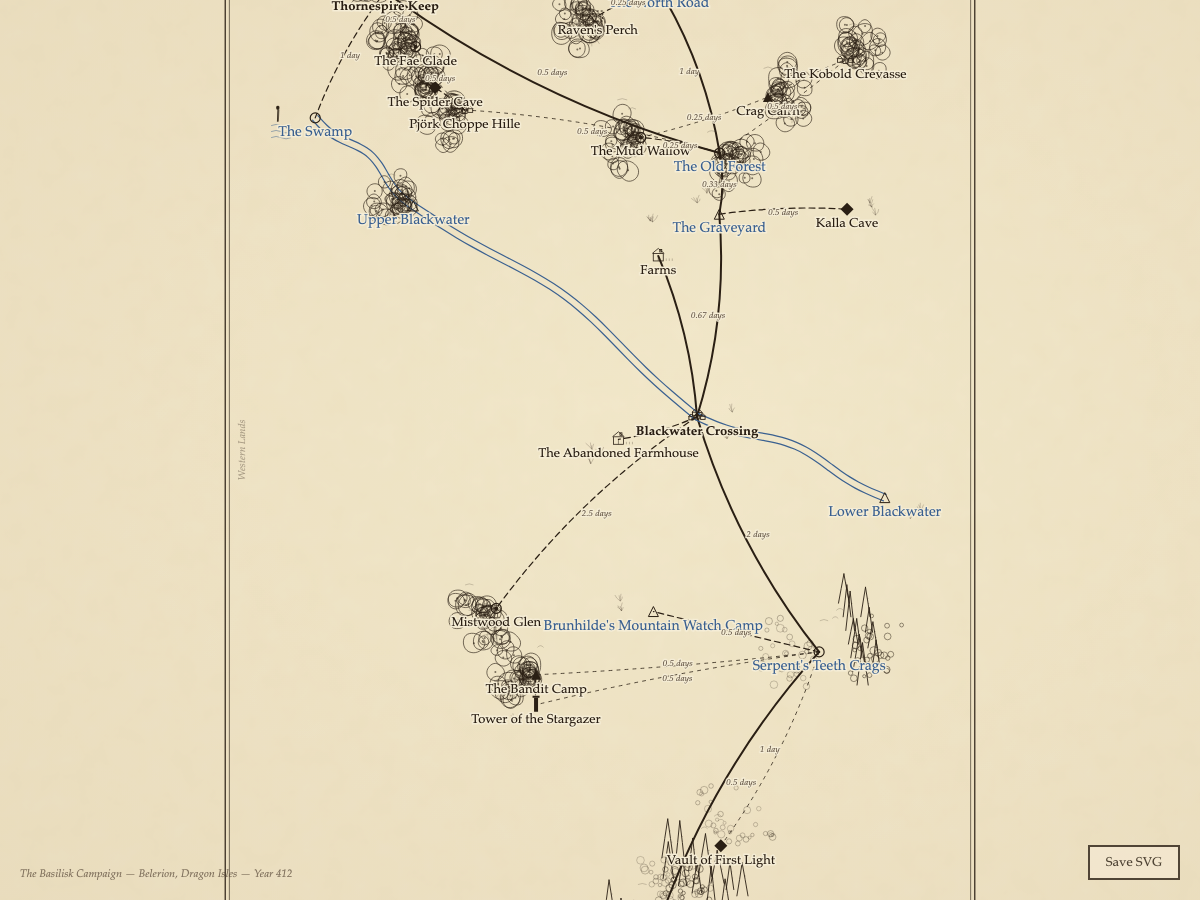
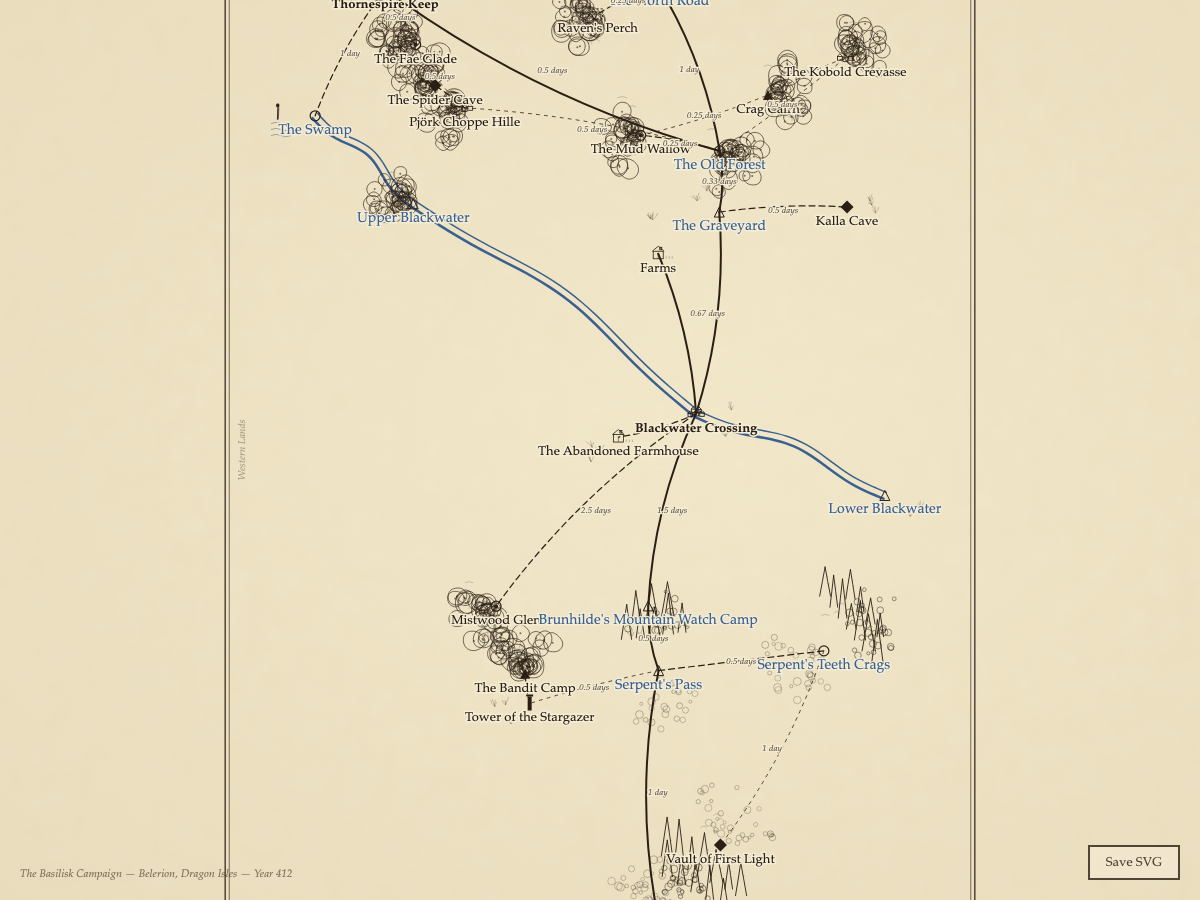
Polish map styles: rivers, dragon, forests, cartouche
Wilderland: thicker blue double-line rivers (2.5/1.5 stroke), bolder
cartouche box (2.0 stroke, 18px title, 4px letter-spacing).

Treasure map: larger dragon beast illustration (50% scale up, 0.7
opacity), reduced annotation overlap (45-60px offset, 25-29 char max).

World atlas: denser forest hatching (12-18 trees, tighter packing),
fixed region watermark duplication (skip when name matches region).

diff --git a/maps/treasuremap.html b/maps/treasuremap.html
@@ -734,7 +734,7 @@ function renderAnnotations(container, nodes) {
 
     // Vary angle and distance per node for a scattered, hand-written look
     const angle = (rng() - 0.5) * Math.PI * 1.5;
-    const dist = 35 + rng() * 20;
+    const dist = 45 + rng() * 15;
 
     const ax = node.x + Math.cos(angle) * dist;
     const ay = node.y + Math.sin(angle) * dist;
@@ -742,7 +742,7 @@ function renderAnnotations(container, nodes) {
     // Use node description text, truncated to 35-45 chars
     let phrase;
     if (node.description) {
-      const limit = 35 + Math.floor(rng() * 10); // 35-44 chars
+      const limit = 25 + Math.floor(rng() * 5); // 25-29 chars
       if (node.description.length > limit) {
         let cut = node.description.lastIndexOf(" ", limit);
         if (cut < 20) cut = limit;
@@ -814,8 +814,8 @@ function renderBeastSymbol(container, nodes) {
   const by = beast.y + Math.sin(angle) * dist;
 
   const g = container.append("g")
-    .attr("transform", `translate(${bx}, ${by}) scale(0.9)`)
-    .attr("opacity", 0.6);
+    .attr("transform", `translate(${bx}, ${by}) scale(1.35)`)
+    .attr("opacity", 0.7);
 
   // Simple dragon silhouette: serpentine body with wings
   // Body — sinuous S-curve
@@ -823,7 +823,7 @@ function renderBeastSymbol(container, nodes) {
     .attr("d", "M 0 0 C 6 -8, 14 -4, 18 -10 C 22 -16, 28 -12, 32 -8 C 36 -4, 30 2, 24 0")
     .attr("fill", "none")
     .attr("stroke", RED_INK)
-    .attr("stroke-width", 1.8)
+    .attr("stroke-width", 2.0)
     .attr("stroke-linecap", "round");
 
   // Left wing — swept back
@@ -832,7 +832,7 @@ function renderBeastSymbol(container, nodes) {
     .attr("fill", RED_INK)
     .attr("opacity", 0.25)
     .attr("stroke", RED_INK)
-    .attr("stroke-width", 0.8);
+    .attr("stroke-width", 1.0);
 
   // Right wing — swept forward
   g.append("path")
@@ -840,20 +840,20 @@ function renderBeastSymbol(container, nodes) {
     .attr("fill", RED_INK)
     .attr("opacity", 0.25)
     .attr("stroke", RED_INK)
-    .attr("stroke-width", 0.8);
+    .attr("stroke-width", 1.0);
 
   // Head — small pointed triangle
   g.append("path")
     .attr("d", "M 0 0 L -4 -3 L -2 2 Z")
     .attr("fill", RED_INK)
-    .attr("opacity", 0.5);
+    .attr("opacity", 0.7);
 
   // Tail tip
   g.append("path")
     .attr("d", "M 24 0 C 26 4, 30 6, 34 4")
     .attr("fill", "none")
     .attr("stroke", RED_INK)
-    .attr("stroke-width", 1.2)
+    .attr("stroke-width", 1.6)
     .attr("stroke-linecap", "round");
 }
 
@@ -871,15 +871,15 @@ function renderBeastMark(container, nodes) {
     const flip = rng() > 0.5 ? -1 : 1;
 
     const g = container.append("g")
-      .attr("transform", `translate(${bx}, ${by}) scale(${flip * 0.8}, 0.8)`)
-      .attr("opacity", 0.5);
+      .attr("transform", `translate(${bx}, ${by}) scale(${flip * 1.2}, 1.2)`)
+      .attr("opacity", 0.7);
 
     // Serpentine body — sinuous S-curve
     g.append("path")
       .attr("d", "M 0 0 C 5 -10, 15 -6, 20 -12 C 25 -18, 32 -10, 28 -4")
       .attr("fill", "none")
       .attr("stroke", RED_INK)
-      .attr("stroke-width", 1.6)
+      .attr("stroke-width", 2.0)
       .attr("stroke-linecap", "round");
 
     // Pointed tail
@@ -887,16 +887,16 @@ function renderBeastMark(container, nodes) {
       .attr("d", "M 28 -4 C 32 0, 36 4, 40 2 L 38 5")
       .attr("fill", "none")
       .attr("stroke", RED_INK)
-      .attr("stroke-width", 1.0)
+      .attr("stroke-width", 1.4)
       .attr("stroke-linecap", "round");
 
     // Small wing suggestion
     g.append("path")
       .attr("d", "M 12 -9 C 8 -20, 2 -22, -2 -16 C 2 -14, 8 -12, 12 -9")
       .attr("fill", RED_INK)
-      .attr("opacity", 0.2)
+      .attr("opacity", 0.3)
       .attr("stroke", RED_INK)
-      .attr("stroke-width", 0.6);
+      .attr("stroke-width", 0.8);
   });
 }
 

diff --git a/maps/wilderland.html b/maps/wilderland.html
@@ -670,10 +670,10 @@ function renderLinks(container, links) {
       const lineGen = d3.line().x(d => d.x).y(d => d.y).curve(d3.curveBasis);
 
       linkGroup.append("path").attr("d", lineGen(offsetBank(spine, 1)))
-        .attr("fill", "none").attr("stroke", BLUE).attr("stroke-width", 1.2)
+        .attr("fill", "none").attr("stroke", BLUE).attr("stroke-width", 2.5)
         .attr("stroke-linecap", "round");
       linkGroup.append("path").attr("d", lineGen(offsetBank(spine, -1)))
-        .attr("fill", "none").attr("stroke", BLUE).attr("stroke-width", 1.2)
+        .attr("fill", "none").attr("stroke", BLUE).attr("stroke-width", 1.5)
         .attr("stroke-linecap", "round");
       return;
     }
@@ -815,7 +815,7 @@ function renderCartouche(container, bounds, meta) {
     .attr("width", boxW).attr("height", boxH)
     .attr("fill", PARCHMENT)
     .attr("stroke", INK)
-    .attr("stroke-width", 1.2);
+    .attr("stroke-width", 2.0);
 
   // Inner border
   container.append("rect")
@@ -823,7 +823,7 @@ function renderCartouche(container, bounds, meta) {
     .attr("width", boxW - 6).attr("height", boxH - 6)
     .attr("fill", "none")
     .attr("stroke", INK)
-    .attr("stroke-width", 0.4);
+    .attr("stroke-width", 0.8);
 
   // Title text
   container.append("text")
@@ -831,9 +831,9 @@ function renderCartouche(container, bounds, meta) {
     .attr("y", by + boxH / 2 - 4)
     .attr("text-anchor", "middle")
     .attr("font-family", "'Palatino Linotype', 'Book Antiqua', Palatino, serif")
-    .attr("font-size", "16px")
+    .attr("font-size", "18px")
     .attr("font-weight", "bold")
-    .attr("letter-spacing", "3px")
+    .attr("letter-spacing", "4px")
     .attr("fill", INK)
     .text(meta.region ? meta.region.toUpperCase() : meta.campaign.toUpperCase());
 

diff --git a/maps/world.html b/maps/world.html
@@ -334,10 +334,10 @@ function renderTerrainSymbols(container, nodes, links) {
         drawMountainRange(terrainGroup, mx, my, 5 + rng() * 3, rng);
       }
     } else if (node.terrain === "forest") {
-      const count = 10 + Math.floor(rng() * 6);
+      const count = 12 + Math.floor(rng() * 7);
       for (let i = 0; i < count; i++) {
         const a = placeAngle + (rng() - 0.5) * 1.6;
-        const r = offset * (0.3 + rng() * 0.7);
+        const r = offset * (0.15 + rng() * 0.45);
         const tx = node.x + Math.cos(a) * r;
         const ty = node.y + Math.sin(a) * r;
         drawForestHatch(terrainGroup, tx, ty, 8 + rng() * 4, rng);
@@ -668,13 +668,16 @@ function renderRegionLabels(container, nodes, meta) {
   const regionLabelGroup = container.append("g").attr("class", "region-labels");
 
   // Large spread-out labels for heart/fortress nodes (major regions)
+  // Skip if the node name matches the campaign region (rendered as central watermark)
+  const regionName = (meta && meta.region) ? meta.region.toUpperCase() : "";
   nodes.forEach(node => {
     if (node.point_type !== "heart" && node.point_type !== "fortress") return;
     if (node.scale === "local") return;
+    if (node.name.toUpperCase() === regionName) return;
 
     regionLabelGroup.append("text")
       .attr("x", node.x)
-      .attr("y", node.y - 35)
+      .attr("y", node.y - 50)
       .attr("text-anchor", "middle")
       .attr("font-family", "'Palatino Linotype', 'Book Antiqua', Palatino, serif")
       .attr("font-size", "24px")
